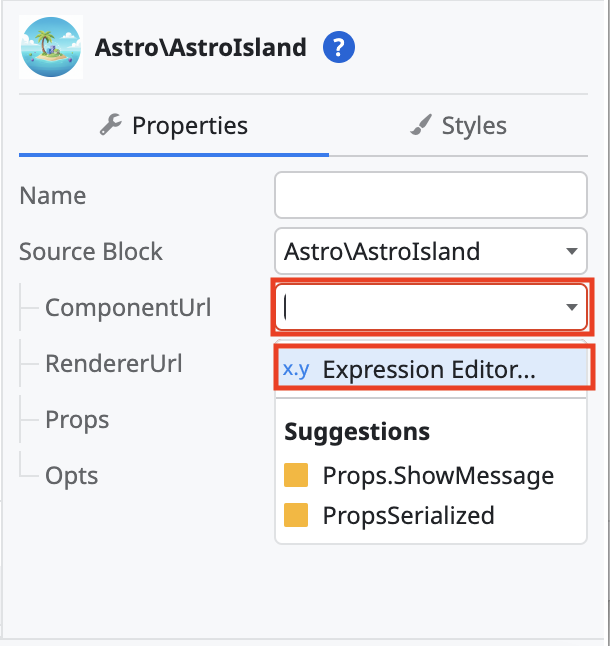
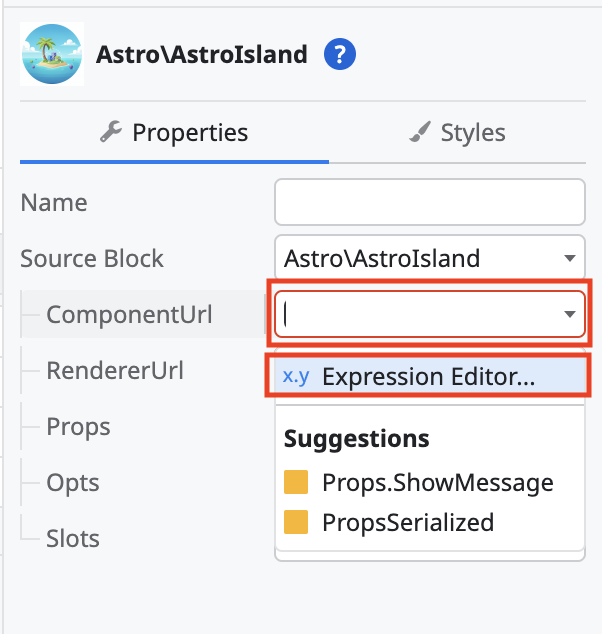
Add slots documentation and examples (#12)
* Updating examples to show slots

* Adding slot output processing

* Adding O11 slots documentation

* Adding ODC slots documentation

* Updating Astro docs for slots

diff --git a/template/output.ts b/template/output.ts
@@ -38,6 +38,40 @@ function formatAstroIslandAttributes(html: string): string {
 }
 
 /**
+ * Stringifies the inner contents of astro-islands for exporting to OutSystems.
+ * @param html
+ * @returns 
+ */
+function stringifyAstroIslandContents(html: string): string {
+  return html.replace(
+    /(<astro-island\b[^>]*>)([\s\S]*?)(<\/astro-island>)/gi,
+    (_match, openTag, inner, closeTag) => {
+      const cleanedInner = inner.replace(/<!--\s*astro:end\s*-->/gi, "");
+      
+      // Trim leading/trailing newlines
+      const trimmed = cleanedInner.replace(/^\s+|\s+$/g, "");
+
+      const lines = trimmed.split(/\r?\n/);
+
+      const stringified = lines
+        .map((line, index) => {
+          const escaped = line
+            .replace(/\\/g, "\\\\")   // escape backslashes first
+            .replace(/"/g, '""');    // escape quotes
+
+          // No trailing + on the last line
+          return index === lines.length - 1
+            ? `"${escaped}"`
+            : `"${escaped}" +`;
+        })
+        .join("\n");
+
+      return `${openTag}\n${stringified}\n${closeTag}`;
+    }
+  );
+}
+
+/**
  * Recursively collects files with a given extension in a directory.
  */
 function getAllFilesWithExtension(dir: string, ext: string): string[] {
@@ -149,9 +183,10 @@ function processAllHTML(inputDir: string, outputDir: string): void {
     });
 
     const prettyHtml = formatAstroIslandAttributes(beautified);
+    const innerStringifiedHtml = stringifyAstroIslandContents(prettyHtml);
 
     ensureDirExists(path.dirname(outputFile));
-    fs.writeFileSync(outputFile, prettyHtml, "utf-8");
+    fs.writeFileSync(outputFile, innerStringifiedHtml, "utf-8");
 
     console.log(`✅ Processed HTML: ${path.relative(inputDir, inputFile)} → ${path.relative(outputDir, outputFile)}`);
   }

diff --git a/template/src/react/components/Counter.tsx b/template/src/react/components/Counter.tsx
@@ -4,24 +4,31 @@ import OutSystemsLogo from '../../images/outsystems.png?url';
 import AstroLogo from '../../images/astro.png?url';
 
 export default function Counter({
+	children,
+	header,
 	InitialCount,
 	ShowMessage,
 }: {
+	children: React.ReactNode;
+	header: React.ReactNode;
 	InitialCount: number;
 	ShowMessage: string;
 }) {
 	const [count, setCount] = useState(InitialCount);
 	const add = () => setCount((i) => i + 1);
 	const subtract = () => setCount((i) => i - 1);
-	const showParentMessage = () => document[ShowMessage](count);
+	const showParentMessage = () => (document as any)[ShowMessage](count);
 
 	return (
 		<>
-            <div className="counter-title">Counter</div>
+            {header}
 			<div className="counter-controls">
 				<button onClick={subtract}>-</button>
 				<pre>{count}</pre>
 				<button onClick={add}>+</button>
+			</div>
+			<div>
+				{children}
 			</div>
 			<div className="counter-message">
                 <button onClick={showParentMessage}>Send value</button>

diff --git a/template/src/vue/components/Counter.vue b/template/src/vue/components/Counter.vue
@@ -20,20 +20,21 @@ const subtract = () => {
 };
 
 const showParentMessage = () => {
-  // Same behavior as document[ShowMessage](count) in React
   (document as any)[props.ShowMessage]?.(count.value);
 };
 </script>
 
 <template>
   <div>
-    <div class="counter-title">Counter</div>
+    <slot name="header" />
 
     <div class="counter-controls">
       <button @click="subtract">-</button>
       <pre>{{ count }}</pre>
       <button @click="add">+</button>
     </div>
+
+    <slot />
 
     <div class="counter-message">
       <button @click="showParentMessage">Send value</button>

diff --git a/docs/src/content/docs/guides/outsystems/o11.md b/docs/src/content/docs/guides/outsystems/o11.md
@@ -214,6 +214,44 @@ Astro Islands can take input parameters and functions, but they must first seria
 - Enter the value from the ```astro-island``` ```opts``` parameter into the window and click the **Close** button.
 ![Select Island Opts value](../../../../assets/o11/islands-opts-value.png)
 
+### Slots
+[Slots](https://docs.astro.build/en/basics/astro-components/#slots) are an optional HTML that can be passed into a component.  They are then able to be picked up and used by the Astro Island component.
+
+When building the Astro Islands code, the [output script](../astro/index.md#converting-to-outsystems) will generate any slot content inside of the HTML output file and it will be ready to be copied into OutSystems. An exmaple output:
+
+```html
+<astro-island
+  uid="Z8N2Aa"
+  component-url="/Counter_A64T-rlf.js"
+  component-export="default"
+  renderer-url="/client_SXSnjBQD.js"
+  props="{""InitialCount"":[0,5],""ShowMessage"":[0,""showMessage""]}"
+  ssr
+  client="only"
+  opts="{""name"":""CounterComponent"",""value"":""react""}"
+  await-children>
+"<template" +
+"    data-astro-template>" +
+"    <div style=""text-align: center;"">" +
+"      <p>Slot content!</p>" +
+"    </div>" +
+"  </template><template data-astro-template=""header"">" +
+"    <div class=""counter-title"">" +
+"      Counter" +
+"    </div>" +
+"  </template>"
+</astro-island>
+```
+In this example, everything inside of the ```<astro-island></astro-island>``` starting from ```"<template" +``` to ```"  </template>"``` can be copied over to OutSystems.
+
+On the block parameters, click on the **Slots** dropdown and select expression editor.
+![Select Island Slots parameter](../../../../assets/o11/island-slots.png)
+
+- Enter the value inside the ```astro-island``` tag into the window and click the **Close** button.
+![Select Island Slots value](../../../../assets/o11/island-slots-value.png)
+
+***Note***: Be careful that the slot does not turn into a security issue. Make sure to properly [sanitize any user input](https://success.outsystems.com/documentation/11/reference/outsystems_apis/sanitization_api/#SanitizeHtml) that may go into a slot to ensure you are protecting against [Injection and Cross-Site Scripting attacks](https://success.outsystems.com/documentation/11/security/injection_and_cross_site_script_xss/).
+
 ### Add styles
 If there are any output CSS styles, they must be added to the block CSS.
 

diff --git a/docs/src/content/docs/guides/outsystems/odc.md b/docs/src/content/docs/guides/outsystems/odc.md
@@ -192,6 +192,44 @@ Astro Islands can take input parameters and functions, but they must first seria
 - Enter the value from the ```astro-island``` ```opts``` parameter into the window and click the **Close** button.
 ![Select Island Opts value](../../../../assets/odc/islands-opts-value.png)
 
+### Slots
+[Slots](https://docs.astro.build/en/basics/astro-components/#slots) are an optional HTML that can be passed into a component.  They are then able to be picked up and used by the Astro Island component.
+
+When building the Astro Islands code, the [output script](../astro/index.md#converting-to-outsystems) will generate any slot content inside of the HTML output file and it will be ready to be copied into OutSystems. An exmaple output:
+
+```html
+<astro-island
+  uid="Z8N2Aa"
+  component-url="/Counter_A64T-rlf.js"
+  component-export="default"
+  renderer-url="/client_SXSnjBQD.js"
+  props="{""InitialCount"":[0,5],""ShowMessage"":[0,""showMessage""]}"
+  ssr
+  client="only"
+  opts="{""name"":""CounterComponent"",""value"":""react""}"
+  await-children>
+"<template" +
+"    data-astro-template>" +
+"    <div style=""text-align: center;"">" +
+"      <p>Slot content!</p>" +
+"    </div>" +
+"  </template><template data-astro-template=""header"">" +
+"    <div class=""counter-title"">" +
+"      Counter" +
+"    </div>" +
+"  </template>"
+</astro-island>
+```
+In this example, everything inside of the ```<astro-island></astro-island>``` starting from ```"<template" +``` to ```"  </template>"``` can be copied over to OutSystems.
+
+On the block parameters, click on the **Slots** dropdown and select expression editor.
+![Select Island Slots parameter](../../../../assets/odc/island-slots.png)
+
+- Enter the value inside the ```astro-island``` tag into the window and click the **Close** button.
+![Select Island Slots value](../../../../assets/odc/island-slots-value.png)
+
+***Note***: Be careful that the slot does not turn into a security issue. Make sure to properly [sanitize any user input](https://success.outsystems.com/documentation/11/reference/outsystems_apis/sanitization_api/#SanitizeHtml) that may go into a slot to ensure you are protecting against [Injection and Cross-Site Scripting attacks](https://success.outsystems.com/documentation/11/security/injection_and_cross_site_script_xss/).
+
 ### Add styles
 If there are any output CSS styles, they must be added to the block CSS.
 

diff --git a/docs/src/content/docs/guides/astro/index.md b/docs/src/content/docs/guides/astro/index.md
@@ -61,6 +61,71 @@ All commands are run from the root of the project, from a terminal:
 ## Parameters
 Since OutSystems does not have a concept of [NULL](https://success.outsystems.com/documentation/11/reference/outsystems_language/data/data_types/available_data_types/#default-and-null-values), you may have to code around NULL/undefined in your library.
 
+### Slots
+[Slots](https://docs.astro.build/en/basics/astro-components/#slots) are an optional HTML that can be passed into a component.  They are then able to be picked up and used by the Astro Island component. You can use either default slot or named slots (or both).
+
+#### React
+The default slot (no name) will go into a React component as the ```children``` prop name.  A named slot will go in as a parameter with the name.
+
+- Astro example:
+    ```jsx
+    ...
+    <Component client:only="react">
+        <div slot="header">
+            <p>Slot header</p>
+        </div>
+        <div>
+            <p>Slot content</p>
+        </div>
+    </CounterComponent>
+    ```
+
+- React example:
+    ```js
+    export default function Component({
+        children,
+        header,
+    }: {
+        children: React.ReactNode;
+        header: React.ReactNode;
+    }) {
+        return (
+            <>
+                {header}
+                <div>
+                    {children}
+                </div>
+            </>
+        );
+    }
+    ```
+
+#### Vue
+The default slot (no name) will go into a React component as the ```<slot />``` name.  A named slot will go in as a parameter with the name.
+
+- Astro example:
+    ```jsx
+    ...
+    <Component client:only="react">
+        <div slot="header">
+            <p>Slot header</p>
+        </div>
+        <div>
+            <p>Slot content</p>
+        </div>
+    </CounterComponent>
+    ```
+
+- Vue example:
+    ```vue
+    <template>
+        <slot name="header" />
+        <div>
+            <slot />
+        </div>
+    </template>
+    ```
+
 ## Using OutSystems handlers
 Since OutSystems cannot pass in a function handler, it has to be bound to the document. Usually, this is passed in as a name, and that name is a handler for the document function.  On the Astro library side, you have to call the following (replace functionName):
 ```js

diff --git a/docs/src/content/docs/guides/getting-started.md b/docs/src/content/docs/guides/getting-started.md
@@ -38,4 +38,4 @@ The following frameworks are currently compatible with the OutSystems Astro Isla
 Once your output for Astro is generated, you can begin the creation and migration of the component to OutSystems. Currently supported platform versions
 
 - [011](../outsystems/o11)
-- [ODC](../outsystems/odc) - Coming Soon!
+- [ODC](../outsystems/odc)
